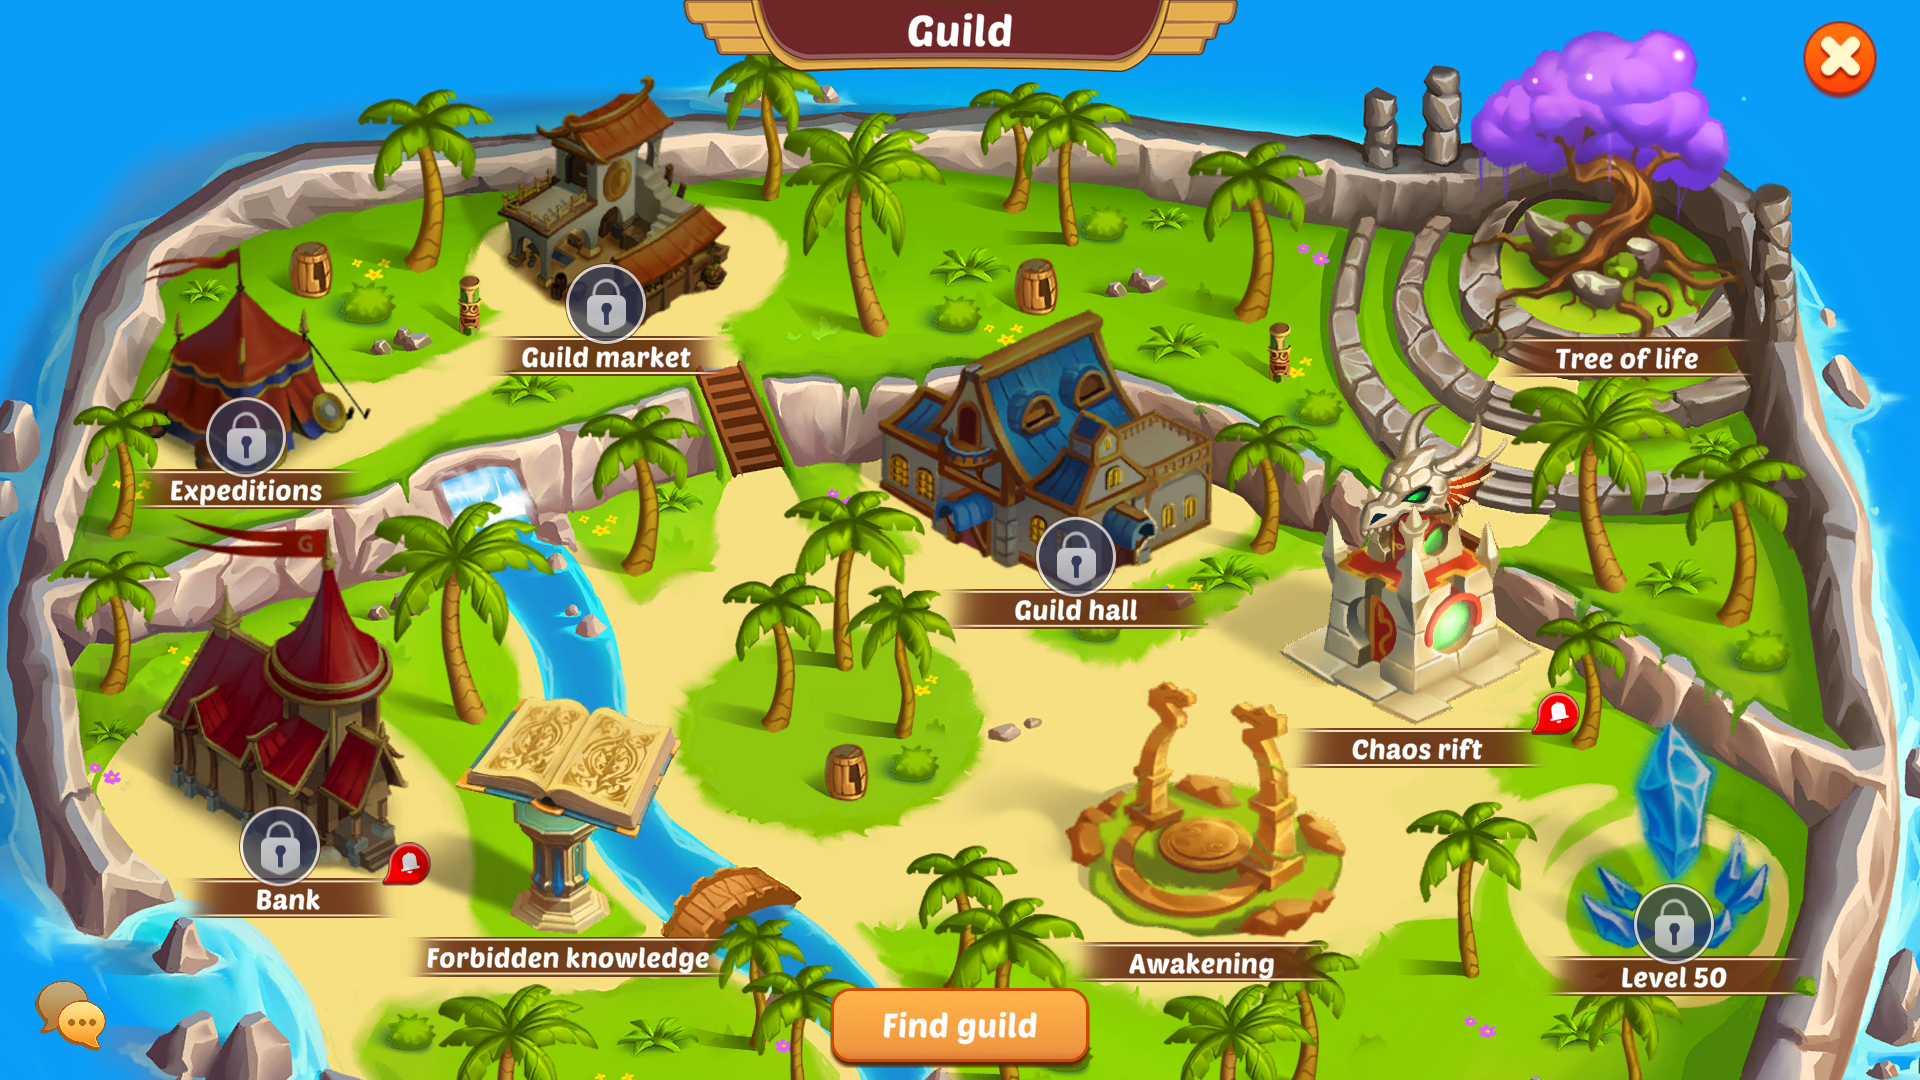
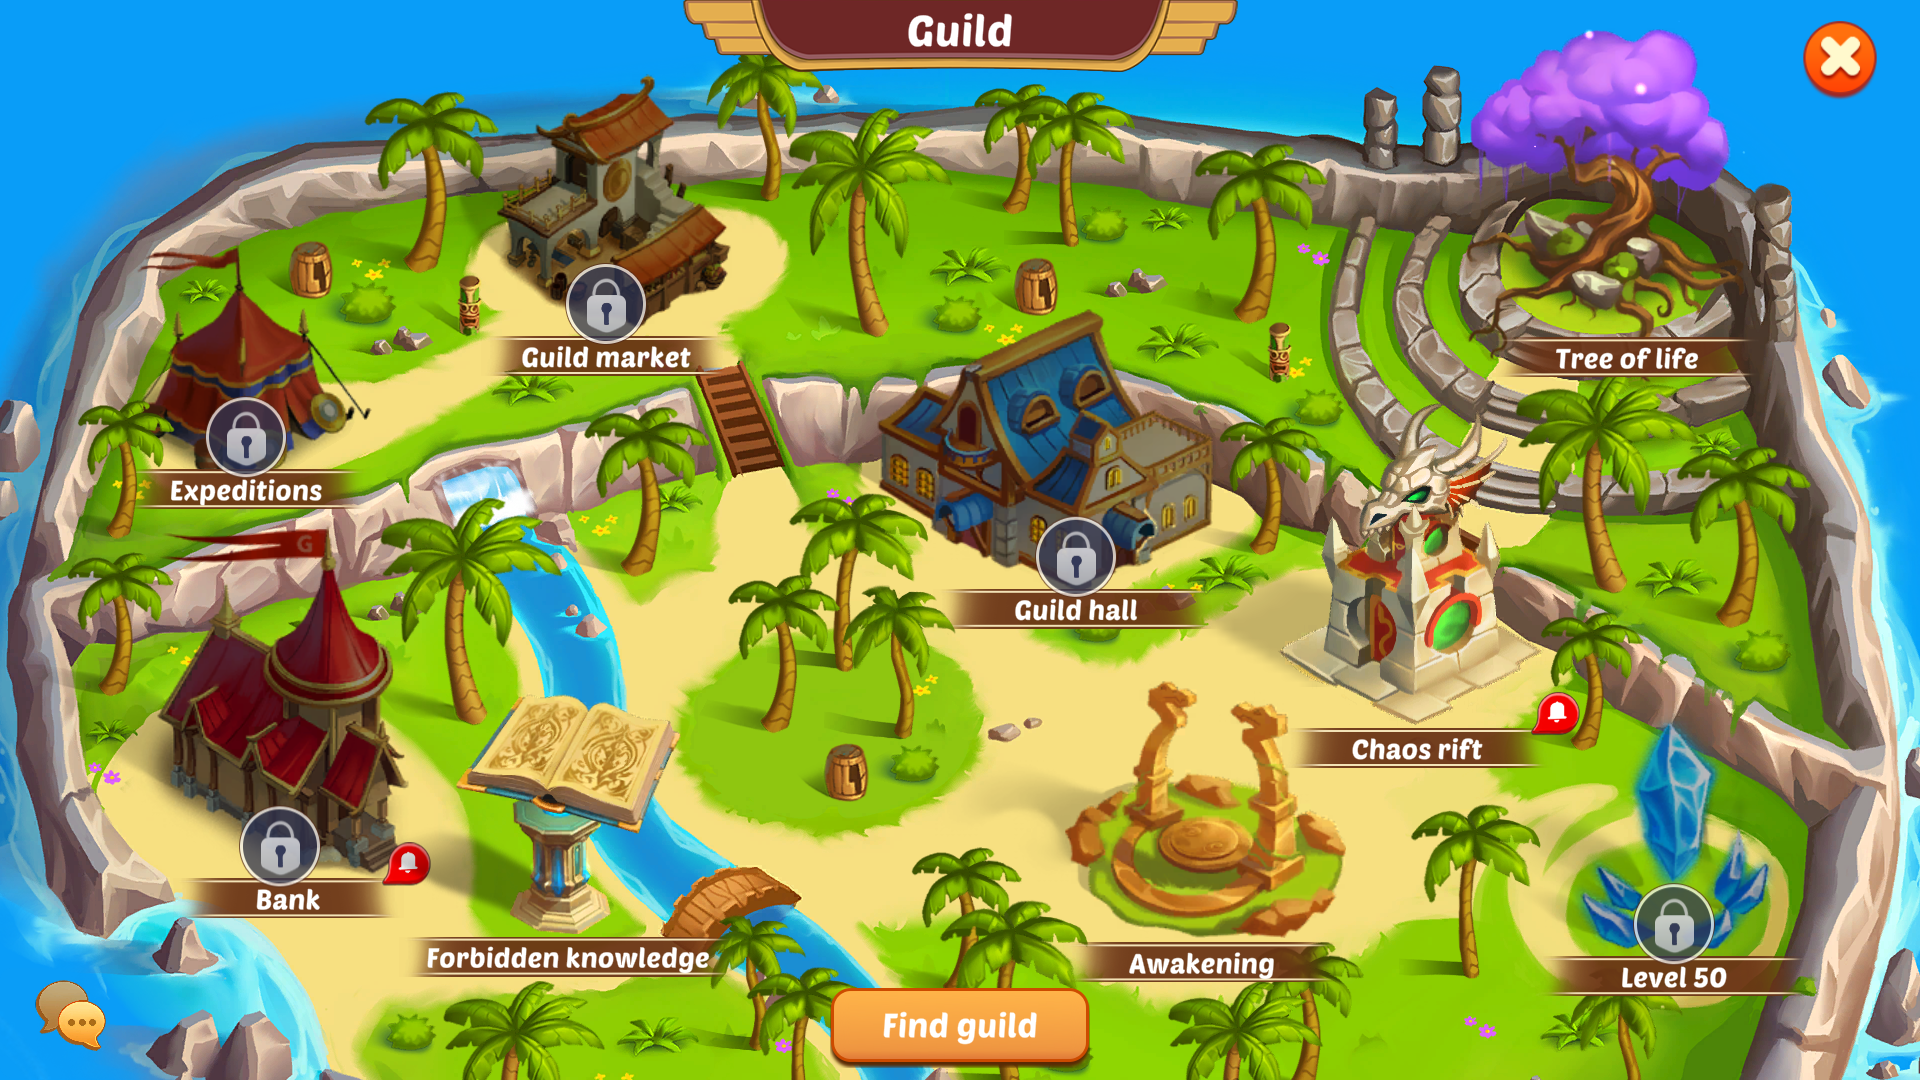
Before: Added Screens.SHOP
BotMaker-Origin: safety

diff --git a/src/main/java/com/firestone/plugins/sdk/Screens.java b/src/main/java/com/firestone/plugins/sdk/Screens.java
@@ -808,9 +808,22 @@ public final class Screens {
     public static final MissionInProgress MISSION_IN_PROGRESS = new MissionInProgress();
 
     public static final class Guild extends Screen {
+        public final Button closeX = Button.of(Pictures.CLOSE_X);
+        public final Button expeditionsGuild = Button.of(Pictures.EXPEDITIONS_GUILD);
+        public final Button marketGuild = Button.of(Pictures.MARKET_GUILD);
+        public final Button hallGuild = Button.of(Pictures.HALL_GUILD);
+        public final Button treeOfLifeGuild = Button.of(Pictures.TREE_OF_LIFE_GUILD);
+        public final Button chaosRiftGuild = Button.of(Pictures.CHAOS_RIFT_GUILD);
+        public final Button bankGuild = Button.of(Pictures.BANK_GUILD);
+        public final Button forbiddenKnowledgeGuild = Button.of(Pictures.FORBIDDEN_KNOWLEDGE_GUILD);
+        public final Button awakeningGuild = Button.of(Pictures.AWAKENING_GUILD);
+        public final Button level50Guild = Button.of(Pictures.LEVEL_50_GUILD);
+        public final Button findGuild = Button.of(Pictures.FIND_GUILD);
+
         @Override
         public Setup setup() {
-            return Setup.named("Guild").from(Screens.HOME.guild);
+            return Setup.named("Guild").markers(List.of(Pictures.TITLE_GUILD)).from(Screens.HOME.guild)
+                    .back(Screens.GUILD.closeX);
         }
     }
 
